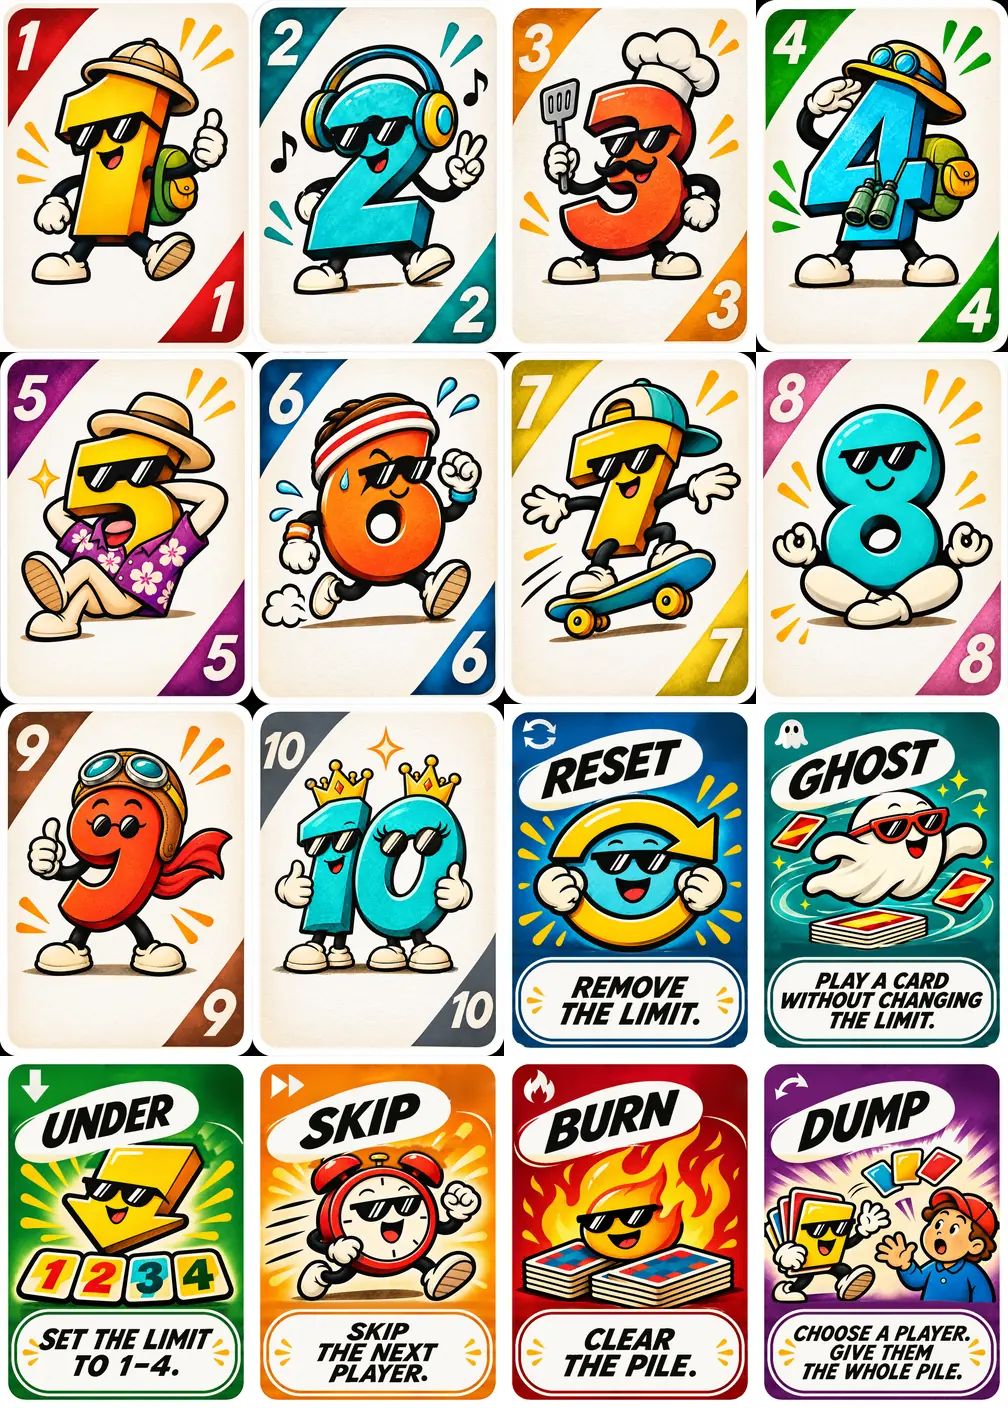
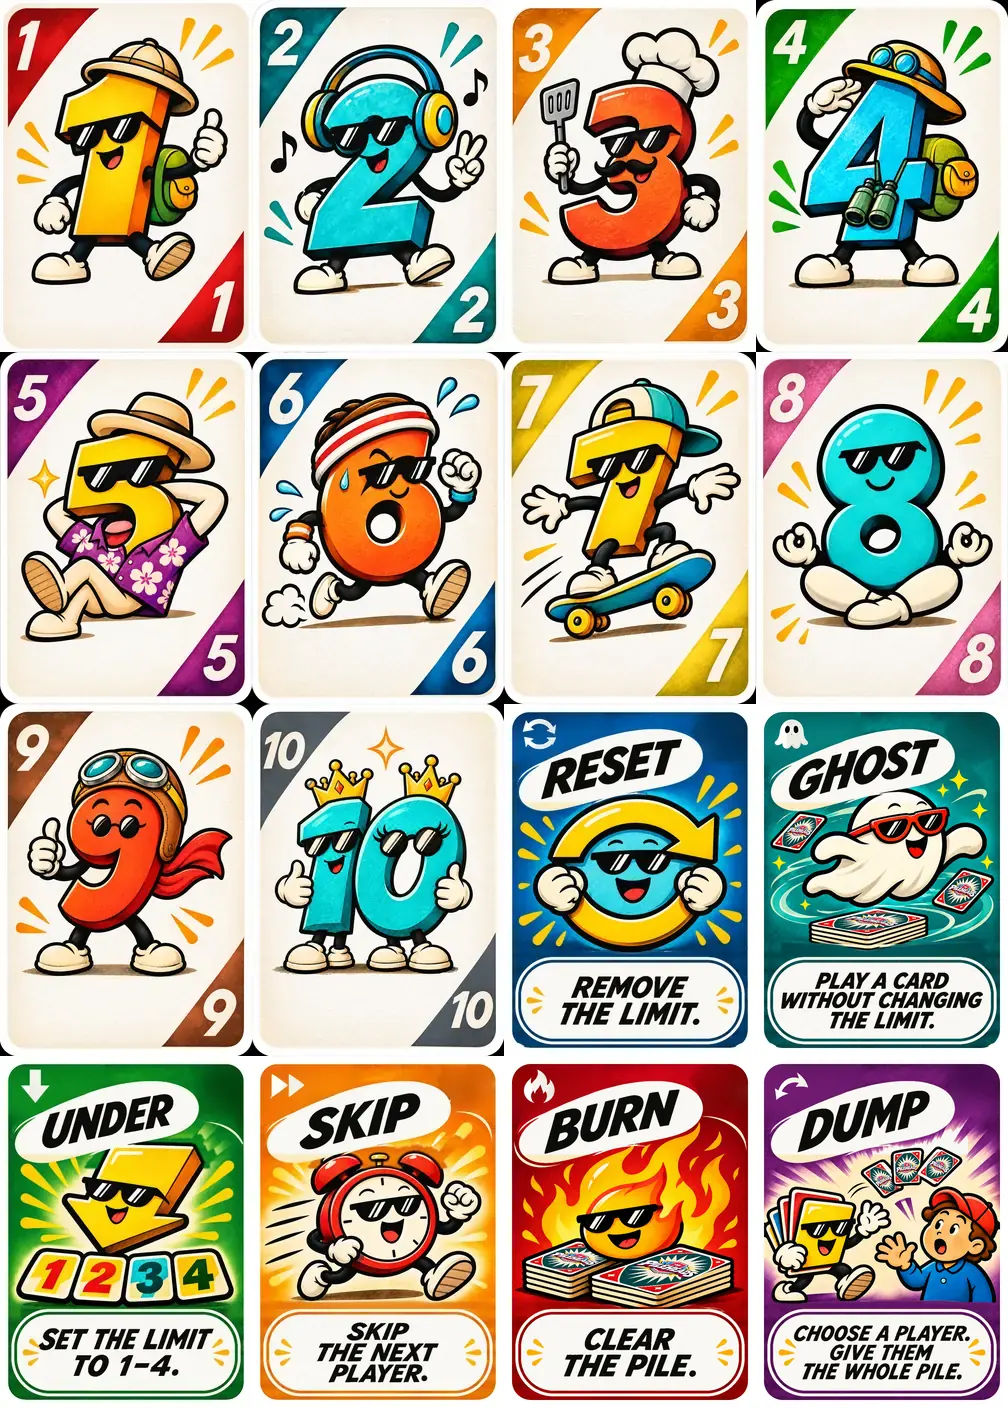
Integrate V8 back texture into three action-card illustrations

diff --git a/apps/web/app/official-home.module.css b/apps/web/app/official-home.module.css
@@ -3,7 +3,7 @@
 .header{position:relative;z-index:3;background:#111b1e;color:var(--paper);border-bottom:4px solid #242e30}.nav{max-width:1320px;margin:auto;min-height:82px;padding:9px 5%;display:flex;align-items:center;justify-content:space-between;gap:28px;font-size:clamp(14px,1.6vw,19px);letter-spacing:0}.nav nav{display:flex;align-items:center;gap:clamp(16px,3vw,48px);flex-wrap:wrap}.nav nav a{padding:9px 2px}.nav nav a:hover{color:var(--yellow)}.nav .navPlay{background:var(--yellow);color:#151715;border-radius:50px;padding:11px 22px;white-space:nowrap}.nav .navPlay:hover{color:#151715;background:#ffe183}
 .brand{display:inline-flex;position:relative;flex-direction:column;isolation:isolate;align-items:center;line-height:.85;padding:12px 10px 13px;transform:rotate(-8deg);font-size:clamp(35px,4.4vw,64px);letter-spacing:-.07em;white-space:nowrap;color:var(--paper);filter:drop-shadow(0 2px 0 #050a09)}.brandWord{position:relative;z-index:1;-webkit-text-stroke:1px var(--ink);paint-order:stroke fill;text-shadow:3px 3px #0c1516,-2px -2px #0c1516,2px -2px #0c1516,-2px 2px #0c1516}.brand:after{content:"";position:absolute;z-index:0;bottom:6px;width:79%;height:8px;background:var(--yellow);border:2px solid #121a1a;transform:skew(-25deg)}.brandCards{display:flex;position:absolute;left:34%;top:0;gap:2px;z-index:-1;transform:rotate(4deg)}.brandCards i{display:block;background:var(--red);height:20px;width:15px;border:2px solid var(--paper);border-radius:2px;transform:rotate(-14deg)}.brandCards i:nth-child(2){transform:translateY(-3px)}.brandCards i:last-child{transform:rotate(14deg)}
 .hero,.deck,.physical,.closing{position:relative;background-image:var(--grain);background-size:4px 4px}.hero{background-color:#086879;color:var(--paper);isolation:isolate;background-image:var(--grain),radial-gradient(ellipse at 70% 52%,#1594a2 0%,transparent 69%);background-size:4px 4px,auto}.hero:after{content:"";position:absolute;left:-3%;right:-3%;height:35px;bottom:-1px;background:var(--paper);clip-path:polygon(0 70%,7% 25%,14% 60%,21% 30%,29% 65%,38% 32%,47% 65%,56% 27%,65% 62%,75% 33%,84% 60%,94% 25%,100% 55%,100% 100%,0 100%);pointer-events:none}.heroInner{width:min(1320px,100%);margin:auto;min-height:clamp(500px,48vw,680px);padding:clamp(38px,6vw,88px) 5% 70px;display:grid;grid-template-columns:.84fr 1.16fr;align-items:center;gap:25px}.heroCopy{position:relative;z-index:2}.kicker{font-weight:850;text-transform:uppercase;letter-spacing:.13em;font-size:clamp(10px,1vw,13px);margin-bottom:12px!important}.hero h1{font-size:clamp(66px,8.1vw,118px);line-height:.84;letter-spacing:-.065em;transform:skew(-3deg) rotate(-3deg);text-shadow:5px 7px 0 #10323a,9px 11px 0 #12343a;margin:12px 0 28px;max-width:100%}.hero h1 span,.home h2 span{color:var(--yellow)}.lead{max-width:415px;font-size:clamp(17px,1.7vw,22px);font-weight:700;line-height:1.45}.buttons{display:flex;align-items:flex-start;flex-wrap:wrap;gap:13px;margin-top:24px}.hero .buttons{flex-direction:column;align-items:flex-start}.button{display:inline-flex;min-height:50px;align-items:center;justify-content:center;gap:10px;padding:12px 24px;font-size:clamp(15px,1.75vw,21px);line-height:1.15;letter-spacing:0;border:2px solid #172021;border-radius:999px;box-shadow:0 4px 0 #172021;transition:transform .18s,box-shadow .18s;text-align:center}.button:hover{transform:translateY(-3px);box-shadow:0 7px 0 #172021}.button:active{transform:translateY(3px);box-shadow:0 1px 0 #172021}.red{background:#c92122;color:#fff8e8}.cream{background:#fff3d5;color:var(--ink)}.yellow{background:var(--yellow);color:var(--ink)}.facts{display:flex;flex-wrap:wrap;gap:8px 15px;margin-top:22px;font-size:12px;font-weight:850;text-transform:uppercase}.facts span+span:before{content:"•";margin-right:15px;color:var(--yellow)}
-.card{display:block;aspect-ratio:252/355;border-radius:7%;background-image:url("/pilehead/assets/stack-characters.webp?v=white-border-v7");background-size:400% 400%;background-repeat:no-repeat;background-color:var(--paper);box-shadow:0 2px 0 #ac9365,0 8px 15px #0a151a5c;flex:none;transition:transform .22s ease}.heroArt{min-height:460px;position:relative;isolation:isolate}.burst{position:absolute;inset:-15% -25%;z-index:-1;background:repeating-conic-gradient(from -14deg at 50% 50%,transparent 0deg 15deg,#f6c32c8a 16deg 19deg,transparent 20deg 33deg);mask-image:radial-gradient(ellipse,transparent 18%,#000 42%,transparent 72%);transform:rotate(-9deg);pointer-events:none}.heroArt .card{position:absolute;width:28%;top:9%;transform:rotate(var(--r));z-index:var(--z,1)}.heroBurn{left:7%;--r:-19deg}.heroDump{left:29%;--r:-5deg;--z:2}.heroGhost{left:50%;--r:9deg;--z:3}.heroReset{left:70%;--r:20deg;--z:2;top:20%!important}.heroArt .heroOne{width:34%;left:10%;top:38%;--r:-14deg;--z:4}.heroArt .heroTwo{width:28%;left:69%;top:51%;--r:20deg;--z:4}.heroArt .heroSeven{width:29%;left:47%;top:40%;--r:8deg;--z:5}.backStack,.productBack,.tableBack{background:url("/pilehead/assets/stack-back.webp?v=white-border-v8") center/cover;border:3px solid var(--paper);border-radius:10px;box-shadow:0 2px 0 #ba9e73,0 4px 0 #f0d8a9,0 6px 0 #a99062,0 8px 0 #f0d8a9,0 16px 19px #0005}.backStack{position:absolute;width:36%;aspect-ratio:252/355;left:33%;bottom:0;z-index:7;transform:rotate(67deg) scaleY(.79)}.artCaption{position:absolute;bottom:3%;right:0;z-index:8;color:var(--yellow);font-style:italic;font-weight:950;font-size:clamp(12px,1.6vw,19px);transform:rotate(-8deg);text-shadow:2px 2px #14363a}
+.card{display:block;aspect-ratio:252/355;border-radius:7%;background-image:url("/pilehead/assets/stack-characters.webp?v=white-border-v7-back-v8");background-size:400% 400%;background-repeat:no-repeat;background-color:var(--paper);box-shadow:0 2px 0 #ac9365,0 8px 15px #0a151a5c;flex:none;transition:transform .22s ease}.heroArt{min-height:460px;position:relative;isolation:isolate}.burst{position:absolute;inset:-15% -25%;z-index:-1;background:repeating-conic-gradient(from -14deg at 50% 50%,transparent 0deg 15deg,#f6c32c8a 16deg 19deg,transparent 20deg 33deg);mask-image:radial-gradient(ellipse,transparent 18%,#000 42%,transparent 72%);transform:rotate(-9deg);pointer-events:none}.heroArt .card{position:absolute;width:28%;top:9%;transform:rotate(var(--r));z-index:var(--z,1)}.heroBurn{left:7%;--r:-19deg}.heroDump{left:29%;--r:-5deg;--z:2}.heroGhost{left:50%;--r:9deg;--z:3}.heroReset{left:70%;--r:20deg;--z:2;top:20%!important}.heroArt .heroOne{width:34%;left:10%;top:38%;--r:-14deg;--z:4}.heroArt .heroTwo{width:28%;left:69%;top:51%;--r:20deg;--z:4}.heroArt .heroSeven{width:29%;left:47%;top:40%;--r:8deg;--z:5}.backStack,.productBack,.tableBack{background:url("/pilehead/assets/stack-back.webp?v=white-border-v8") center/cover;border:3px solid var(--paper);border-radius:10px;box-shadow:0 2px 0 #ba9e73,0 4px 0 #f0d8a9,0 6px 0 #a99062,0 8px 0 #f0d8a9,0 16px 19px #0005}.backStack{position:absolute;width:36%;aspect-ratio:252/355;left:33%;bottom:0;z-index:7;transform:rotate(67deg) scaleY(.79)}.artCaption{position:absolute;bottom:3%;right:0;z-index:8;color:var(--yellow);font-style:italic;font-weight:950;font-size:clamp(12px,1.6vw,19px);transform:rotate(-8deg);text-shadow:2px 2px #14363a}
 .benefits{padding:22px 5% 31px;background-color:var(--paper);background-image:var(--grain);background-size:4px 4px}.benefits h2{text-align:center;font-size:clamp(25px,3vw,38px);margin-bottom:17px}.benefitGrid{width:min(1120px,100%);margin:auto;display:grid;grid-template-columns:repeat(3,1fr);gap:22px}.benefitGrid article{display:flex;gap:15px;align-items:center;padding:7px 17px}.benefitGrid article+article{border-left:2px solid #191b1933}.benefitGrid article>span{width:48px;height:48px;flex:none;background:var(--yellow);border:2px solid var(--ink);border-radius:50%;display:grid;place-items:center;font-weight:950;font-size:31px;line-height:1}.benefitGrid h3{font-size:clamp(18px,2vw,24px)}.benefitGrid p{font-weight:650;font-size:13px;line-height:1.4;margin-top:3px}
 .split{max-width:1320px;margin:auto;padding:clamp(42px,6vw,86px) 5%;display:grid;grid-template-columns:.85fr 1.15fr;gap:clamp(22px,5vw,75px);align-items:center}.home h2{font-size:clamp(37px,5.2vw,74px);line-height:.92;letter-spacing:-.045em}.benefits h2{font-size:clamp(25px,3vw,38px)}.split p:not(.kicker):not(.releaseNote){font-size:clamp(16px,1.6vw,20px);font-weight:650;line-height:1.5;max-width:470px;margin:17px 0 22px}.deck{background-color:#075b66;color:var(--paper)}.actionFan{display:flex;align-items:center;justify-content:center;padding:14px 12px;min-width:0}.actionFan .card{width:27%;margin-left:-2%;transform:rotate(var(--tilt));transform-origin:50% 90%}.actionFan .card:hover{transform:translateY(-12px) rotate(0);z-index:3}.fan0{--tilt:-13deg}.fan1{--tilt:-4deg}.fan2{--tilt:5deg}.fan3{--tilt:14deg}
 .online{background-color:var(--paper);background-image:var(--grain);background-size:4px 4px}.online .split{grid-template-columns:1.05fr .95fr}.online h2 span{color:var(--red)}.device{border:10px solid #182020;background:#131d1d;border-radius:25px;box-shadow:0 0 0 2px #ad936b,0 12px 0 #aa9164,0 20px 30px #211e1838;transform:rotate(-5deg);overflow:hidden;padding:5px;aspect-ratio:1.8;display:flex;flex-direction:column}.deviceHeader{display:flex;align-items:center;justify-content:space-between;color:var(--paper);padding:6px 8px;font-size:10px;font-weight:900}.deviceHeader strong{font-style:italic;font-size:20px}.deviceHeader span{color:var(--yellow)}.table{position:relative;flex:1;border:2px solid #bead7a;border-radius:45%;background:radial-gradient(ellipse,#16887d,#06525a);display:flex;flex-direction:column;align-items:center;justify-content:space-between;padding:8px}.seat{color:var(--paper);font-size:10px;font-weight:800}.tablePile{display:flex;align-items:center;justify-content:center;gap:13px;width:100%;position:absolute;top:28%}.tablePile .card,.tableBack{width:13%;aspect-ratio:252/355;box-shadow:0 4px 6px #0005}.hand{display:flex;justify-content:center;width:100%;height:37%;gap:3px}.hand .card{width:12%;align-self:flex-end;transform:rotate(-5deg)}.hand .card:nth-child(2){transform:translateY(-3px)}.hand .card:nth-child(3){transform:rotate(5deg)}.textLink{font-weight:850;text-decoration:underline;text-underline-offset:4px;align-self:center;padding:10px 3px}.physical{background-color:#c52c2c;color:var(--paper)}.physical .split{grid-template-columns:1fr 1fr}.productArt{position:relative;height:clamp(210px,28vw,370px);display:grid;place-items:center}.productBox{position:absolute;left:17%;top:2%;width:37%;height:87%;background:repeating-conic-gradient(at 50% 55%,#e0a733 0deg 3deg,transparent 3deg 21deg),#086977;border:3px solid #121b1a;box-shadow:-13px 7px 0 #08313a,-16px 9px 0 #172020,0 19px 22px #3e151a88;transform:rotate(-7deg);display:flex;flex-direction:column;align-items:center;justify-content:space-around;overflow:hidden;color:var(--paper);text-align:center;padding:5px}.productBox .brand{font-size:clamp(23px,3.5vw,49px)}.productBox>span:not(.brand){font-size:clamp(6px,.75vw,10px);font-weight:950}.productBox>.card{width:49%;transform:rotate(-5deg);box-shadow:none}.productBack{width:31%;aspect-ratio:252/355;position:absolute;left:44%;bottom:0;transform:rotate(64deg) scaleY(.74)}.productFace{position:absolute;width:28%;right:5%;top:9%;transform:rotate(16deg)}.releaseNote{font-size:13px;margin-top:15px!important;font-weight:650}
@@ -13,7 +13,7 @@
 @media(prefers-reduced-motion:reduce){.home .button,.home .card{transition:none}}
 
 /* Approved V2 artwork, web-optimized from Drive masters. Homepage only. */
-.card{aspect-ratio:63/88;background-image:url("/stack-media/stack-home-faces-web-desktop.webp?v=white-border-v7")}
+.card{aspect-ratio:63/88;background-image:url("/stack-media/stack-home-faces-web-desktop.webp?v=white-border-v7-back-v8")}
 .backStack,.productBack,.tableBack{background-image:url("/stack-media/stack-home-back-web.webp?v=white-border-v8")}
 .brand{display:inline-flex;align-items:center;justify-content:center;width:clamp(80px,9vw,133px);padding:0;transform:none;filter:drop-shadow(0 2px 0 #0b1011)}
 .brand img{width:100%;height:auto;max-height:76px;object-fit:contain}
@@ -71,4 +71,4 @@
 .home .split>div,.home .heroCopy{min-width:0}
 @media(max-width:360px){.hero h1{font-size:clamp(42px,14vw,52px)}.nav nav{gap:7px;font-size:12px}.previewLabel{right:0;font-size:10px}.closing h2{font-size:38px}}
 
-@media(max-width:600px) and (max-resolution: 2dppx){.card{background-image:url("/stack-media/stack-home-faces-web-mobile.webp?v=white-border-v7")}}
+@media(max-width:600px) and (max-resolution: 2dppx){.card{background-image:url("/stack-media/stack-home-faces-web-mobile.webp?v=white-border-v7-back-v8")}}

diff --git a/apps/web/public/stack-media/stack-design-system.css b/apps/web/public/stack-media/stack-design-system.css
@@ -110,7 +110,7 @@
  .lobby-facts{display:flex;flex-wrap:wrap;gap:8px 14px;margin:18px 0 4px;font-size:11px;font-weight:850;text-transform:uppercase;letter-spacing:.06em;color:var(--brand-yellow)}
  .lobby-art{position:relative;isolation:isolate;width:100%;height:clamp(190px,25vw,330px);margin:12px 0 3px;pointer-events:none}
  .lobby-art::before{content:"";position:absolute;inset:-8%;z-index:-1;background:repeating-conic-gradient(from 15deg,#f6c32c9c 0deg 2deg,transparent 2deg 22deg);mask-image:radial-gradient(ellipse,transparent 12%,#000 32%,#000 56%,transparent 70%)}
- .lobby-card{position:absolute;top:9%;width:31%;aspect-ratio:63/88;background-image:url("/stack-media/stack-home-faces-web-mobile.webp?v=white-border-v7");background-size:400% 400%;border-radius:7%;box-shadow:0 3px 0 #b99b6b,0 10px 16px #092b3266}
+ .lobby-card{position:absolute;top:9%;width:31%;aspect-ratio:63/88;background-image:url("/stack-media/stack-home-faces-web-mobile.webp?v=white-border-v7-back-v8");background-size:400% 400%;border-radius:7%;box-shadow:0 3px 0 #b99b6b,0 10px 16px #092b3266}
  .lobby-burn{left:7%;transform:rotate(-18deg);background-position:66.6667% 100%}
  .lobby-dump{left:34%;top:3%;transform:rotate(-2deg);background-position:100% 100%}
  .lobby-ghost{left:63%;transform:rotate(16deg);background-position:100% 66.6667%}
@@ -143,7 +143,7 @@
  .stack-lobby .alert{color:var(--brand-paper)}
  .stack-gallery .hero{display:grid;grid-template-columns:minmax(0,1.3fr) minmax(0,.7fr);gap:22px;align-items:center;padding:clamp(28px,4vw,58px) max(5%,calc((100vw - var(--brand-content))/2))}
  .gallery-hero-copy{min-width:0}.gallery-hero-art{position:relative;height:clamp(150px,20vw,250px);isolation:isolate}
- .gallery-hero-art span{position:absolute;top:3%;width:40%;aspect-ratio:63/88;background-image:url("/stack-media/stack-home-faces-web-mobile.webp?v=white-border-v7");background-size:400% 400%;border-radius:7%;box-shadow:0 3px 0 #b99b6b,0 12px 20px #12333d77}
+ .gallery-hero-art span{position:absolute;top:3%;width:40%;aspect-ratio:63/88;background-image:url("/stack-media/stack-home-faces-web-mobile.webp?v=white-border-v7-back-v8");background-size:400% 400%;border-radius:7%;box-shadow:0 3px 0 #b99b6b,0 12px 20px #12333d77}
  .gallery-hero-art span:nth-child(1){left:0;transform:rotate(-13deg);background-position:0 0}
  .gallery-hero-art span:nth-child(2){left:28%;transform:rotate(1deg);background-position:66.6667% 100%}
  .gallery-hero-art span:nth-child(3){left:56%;transform:rotate(13deg);background-position:100% 66.6667%}
@@ -164,7 +164,7 @@
  .stack-rules .stack-quickstart .columns h3{margin:0 0 7px;color:var(--brand-teal)}
  .stack-rules .stack-quickstart h3{margin-top:20px}
  .stack-rules .stack-illustrated-actions .action-card{display:grid;grid-template-columns:58px minmax(0,1fr);grid-template-rows:auto 1fr;gap:3px 10px;align-items:start;padding:11px;min-width:0}
- .stack-illustrated-actions .action-card::before{content:"";display:block;width:100%;aspect-ratio:63/88;background-image:url("/stack-media/stack-home-faces-web-mobile.webp?v=white-border-v7");background-size:400% 400%;grid-row:1/3;border-radius:6%;box-shadow:0 2px 0 #bda475}
+ .stack-illustrated-actions .action-card::before{content:"";display:block;width:100%;aspect-ratio:63/88;background-image:url("/stack-media/stack-home-faces-web-mobile.webp?v=white-border-v7-back-v8");background-size:400% 400%;grid-row:1/3;border-radius:6%;box-shadow:0 2px 0 #bda475}
  .stack-illustrated-actions .action-card[data-action="reset"]::before{background-position:66.6667% 66.6667%}
  .stack-illustrated-actions .action-card[data-action="ghost"]::before{background-position:100% 66.6667%}
  .stack-illustrated-actions .action-card[data-action="under"]::before{background-position:0 100%}

diff --git a/apps/web/app/globals.css b/apps/web/app/globals.css
@@ -31,7 +31,7 @@ button:focus-visible,input:focus-visible,select:focus-visible,a:focus-visible{
 .cta:active:not(:disabled),.primary-button:active:not(:disabled){transform:translateY(3px);box-shadow:0 2px 0 #ac8258}
 .subtle-link{color:var(--lime);font-size:14px;font-weight:750}
 .hero-cards{position:absolute;right:10%;top:25%;width:310px;height:440px;pointer-events:none;opacity:.82;filter:drop-shadow(0 35px 35px #0005)}
-.hero-card{position:absolute;width:230px;aspect-ratio:252/355;background-image:url("/pilehead/assets/stack-characters.webp?v=white-border-v7");background-size:400% 400%;border:7px solid #f9e7c2;border-radius:18px;box-shadow:0 12px 34px #0008}
+.hero-card{position:absolute;width:230px;aspect-ratio:252/355;background-image:url("/pilehead/assets/stack-characters.webp?v=white-border-v7-back-v8");background-size:400% 400%;border:7px solid #f9e7c2;border-radius:18px;box-shadow:0 12px 34px #0008}
 .hero-card-a{transform:rotate(-17deg);background-position:0 0}
 .hero-card-b{transform:translate(90px,40px) rotate(13deg);background-position:33.333% 0}
 .hero-card-c{transform:translate(44px,-20px) rotate(-1deg);background-position:66.667% 0}
@@ -92,7 +92,7 @@ button:focus-visible,input:focus-visible,select:focus-visible,a:focus-visible{
 .playing-card{position:relative;flex:none;width:102px;aspect-ratio:252 / 355;border-radius:11px;
   background:#f6e3bd;border:3px solid #f9e9c8;box-shadow:0 2px 0 #b6a27a,0 9px 16px #031d1678;
   overflow:visible;will-change:transform;transform-origin:center center}
-.card-art{position:absolute;inset:2px;border-radius:7px;background-image:url("/pilehead/assets/stack-characters.webp?v=white-border-v7");
+.card-art{position:absolute;inset:2px;border-radius:7px;background-image:url("/pilehead/assets/stack-characters.webp?v=white-border-v7-back-v8");
   background-size:400% 400%;background-repeat:no-repeat;pointer-events:none}
 .playing-card.is-back .card-art{background-image:url("/pilehead/assets/stack-back.webp?v=white-border-v8");background-size:cover;background-position:center}
 .playing-card.is-selected{box-shadow:0 0 0 4px var(--gold),0 14px 25px #0009;z-index:8}
@@ -924,7 +924,7 @@ button:focus-visible,input:focus-visible,select:focus-visible,a:focus-visible{
   background-position:center;background-size:cover
 }
 .mini-face{
-  background-image:url("/pilehead/assets/stack-characters.webp?v=white-border-v7");
+  background-image:url("/pilehead/assets/stack-characters.webp?v=white-border-v7-back-v8");
   background-color:#f5e1b5;background-size:400% 400%;background-repeat:no-repeat
 }
 .mini-face.theme-original{background-image:url("/pilehead/assets/stack-sheet.webp")}
@@ -984,10 +984,10 @@ button:focus-visible,input:focus-visible,select:focus-visible,a:focus-visible{
 }
 
 /* PILEHEADS Illustrated V2. Explicitly scope hidden-card art to its own theme. */
-.hero-card {background-image:url("/pilehead/assets/stack-characters-v2.webp?v=white-border-v7")}
+.hero-card {background-image:url("/pilehead/assets/stack-characters-v2.webp?v=white-border-v7-back-v8")}
 .playing-card.theme-refined .card-art,
 .drag-ghost.theme-refined .card-art,
-.mini-face.theme-refined {background-image:url("/pilehead/assets/stack-characters-v2.webp?v=white-border-v7")}
+.mini-face.theme-refined {background-image:url("/pilehead/assets/stack-characters-v2.webp?v=white-border-v7-back-v8")}
 .playing-card.theme-refined.is-back .card-art,
 .opponent-seat.theme-refined .hand-back,
 .opponent-seat.theme-refined .mini-back,

diff --git a/dist/pilehead/deck-raster.css b/dist/pilehead/deck-raster.css
@@ -43,7 +43,7 @@
    If a characters asset is temporarily unavailable, the original image remains readable. */
 html[data-stack-deck-theme="characters"] .ph-card .ph-raster-cell,
 html[data-stack-deck-theme="characters"] .mini.ph-raster-mini .ph-raster-cell {
- background-image:url("assets/stack-characters.webp?v=white-border-v7"),url("assets/stack-sheet.webp?v=corner-index-20261118");
+ background-image:url("assets/stack-characters.webp?v=white-border-v7-back-v8"),url("assets/stack-sheet.webp?v=corner-index-20261118");
  background-size:400% 400%,400% 400%;
  background-position:var(--stack-x) var(--stack-y),var(--stack-x) var(--stack-y);
 }
@@ -51,7 +51,7 @@ html[data-stack-deck-theme="characters"] .mini.ph-raster-mini .ph-raster-cell {
 /* White Border V7: same slot order, independent of all legacy artwork. */
 html[data-stack-deck-theme="refined"] .ph-card .ph-raster-cell,
 html[data-stack-deck-theme="refined"] .mini.ph-raster-mini .ph-raster-cell {
- background-image:url("assets/stack-characters-v2.webp?v=white-border-v7"),url("assets/stack-characters.webp?v=white-border-v7");
+ background-image:url("assets/stack-characters-v2.webp?v=white-border-v7-back-v8"),url("assets/stack-characters.webp?v=white-border-v7-back-v8");
  background-size:400% 400%,400% 400%;
  background-position:var(--stack-x) var(--stack-y),var(--stack-x) var(--stack-y);
 }

diff --git a/docs/pilehead-illustrated-deck.md b/docs/pilehead-illustrated-deck.md
@@ -17,4 +17,4 @@ V7 supplies the default/compact simulator themes (hands, opponents, piles, drag 
 Run `npm run test:pilehead-art`, `npm run build`, and the browser acceptance suite. Review the live homepage, /play, /pilehead/gallery.html, and /pilehead/print.html. Use the individual full-resolution masters for commercial print preparation, not web sprites.
 
 ## V8 card back (2026-11-26)
-Canonical master: [PILEHEADS_BACK_white_border_v8.png](https://drive.google.com/file/d/12dM4rh7gm6YcA9M98dtbwoyVG106WedP/view) (1071 × 1496). Website exports: 440 × 615 and 300 × 419. The pure-white logo lettering and white outer border are preserved. Homepage gameplay screenshots were replaced with genuine V8 browser acceptance captures from run 45891297629, preserving their previous dimensions. Embedded illustrations require separate visual refreshes.
+Canonical master: [PILEHEADS_BACK_white_border_v8.png](https://drive.google.com/file/d/12dM4rh7gm6YcA9M98dtbwoyVG106WedP/view) (1071 × 1496). Website exports: 440 × 615 and 300 × 419. The pure-white logo lettering and white outer border are preserved. Homepage gameplay screenshots were replaced with genuine V8 browser acceptance captures from run 45891297629, preserving their previous dimensions. Embedded card-back artwork was updated on GHOST, BURN and DUMP by projecting the exact V8 master onto the existing card surfaces. The remaining 13 face tiles, game rules, characters and layout were preserved before re-encoding WebP variants at comparable sizes. Historical concept and legacy deck artwork is not part of this update.
